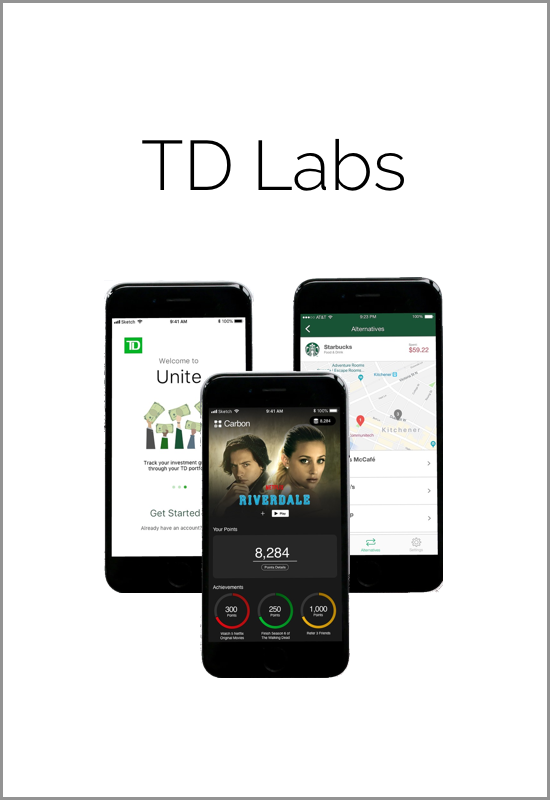
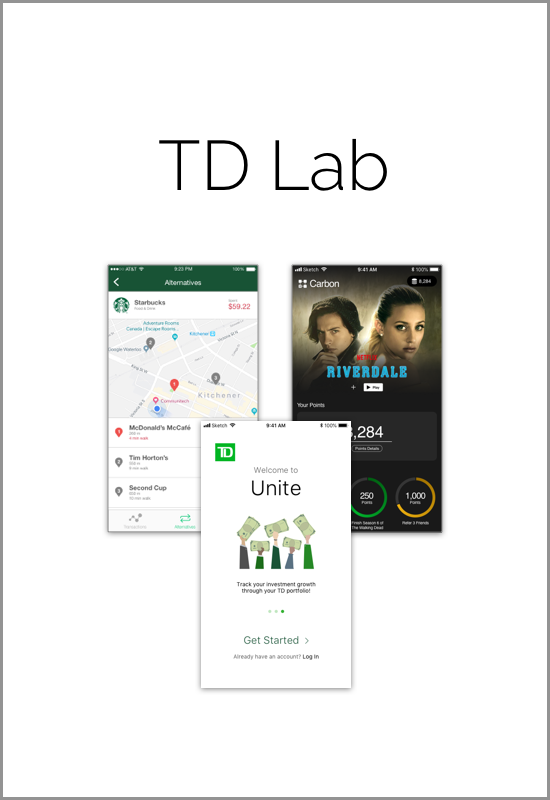
project pages, images, reorganization :x

Changed region(s): [[0.1855, 0.3125, 0.8345, 0.875], [0.2473, 0.1562, 0.7418, 0.25]]

diff --git a/td.html b/td.html
@@ -31,7 +31,7 @@
 
         <div class="container-fluid project-intro">
             <div class="row">
-                <img src="mockups/collide-welcome-mock.png" alt="Collide Home Mockup"  class="project-intro-pic">
+                <img src="mockups/td-intro-mock.png" alt="TD Lab Mockup"  class="project-intro-pic">
                 <a class="btn btn-outline-light " href="index.html#projects" role="button"><img class="icon" src="glyph-iconset-master/svg/si-glyph-arrow-thin-left.svg" >Projects</a>
             </div>
 
@@ -40,47 +40,55 @@
 
         <div id="collide">
             <div class="container intro-container">
-                <h2 class="section-title">Collide</h2>
+                <h2 class="section-title">TD Lab - Fall 2018</h2>
                 <div class="line"></div>
             </div>
 
             <div class="container description-container">
                 <div class="row project-item">
-                    <img class="col-lg-6 project-img" src="mockups/collide-home-mock.png"></img>
+                    <img class="col-lg-6 project-img " src="pictures/td-thanksgiving.png"></img>
                     <div class="col-lg-6 project-img-cap">
                         <p>Lorem ipsum dolor sit amet, consectetur adipiscing elit, sed do eiusmod tempor incididunt ut labore et dolore magna aliqua. Ut enim ad minim veniam, quis nostrud exercitation ullamco laboris nisi ut aliquip ex ea commodo consequat.</p>
                     </div>
                 </div>
-
-                <div class="row project-item">
-                    <div class="col-lg-6 project-img-cap">
-                        <p>Lorem ipsum dolor sit amet, consectetur adipiscing elit, sed do eiusmod tempor incididunt ut labore et dolore magna aliqua. Ut enim ad minim veniam, quis nostrud exercitation ullamco laboris nisi ut aliquip ex ea commodo consequat.</p>
-                    </div>
-                    <img class="col-lg-6 project-img" src="mockups/collide-onboarding.png"></img>
-                </div>
-
-                <div class="row project-item">
-                    <img class="col-lg-6 project-img" src="mockups/collide-fitness.png"></img>
-                    <div class="col-lg-6 project-img-cap">
-                        <p>Lorem ipsum dolor sit amet, consectetur adipiscing elit, sed do eiusmod tempor incididunt ut labore et dolore magna aliqua. Ut enim ad minim veniam, quis nostrud exercitation ullamco laboris nisi ut aliquip ex ea commodo consequat.</p>
-                    </div>
-                </div>
-
             </div>
 
             <div class="container">
+                <h2 class="section-title section-title-td">Hackathon Projects</h2>
+                <div class="line"></div>
+
+                    <div class="text-center">
+                            <h2 class="hack-title">TD Unite</h2>
+                        </div>
+                    <div class="text-center">
+                            <img src="mockups/td-u-mock.png" alt="TD Unite Mockup" class="hack-pp-img">
+                    </div>
+                    <div class="text-center">
+                        <p class="hack-cap">Lorem ipsum dolor sit amet, consectetur adipiscing elit, sed do eiusmod tempor incididunt ut labore et dolore magna aliqua.</p>
+                    </div>
+
                     <div class="line"></div>
 
                     <div class="text-center">
-                            <h2 class="project-pres-title">Get to know Collide a bit better...</h2>
+                            <h2 class="hack-title">Carbon</h2>
                         </div>
                     <div class="text-center">
-                        <a href="https://docs.google.com/presentation/d/1MB4bNPIu9TsIKI1iLiS3gjwS2dYgbJJmpbbThyDz7KQ/edit?usp=sharing" target="_blank" > 
-                            <img src="mockups/collide-pres.jpg" alt="Collide-Presentation" class="project-img project-pres-img">
-                        </a> 
+                            <img src="mockups/td-c-mock.png" alt="Carbon-Mockup" class="hack-pp-img">
                     </div>
                     <div class="text-center">
-                        <p class="project-pres-cap">Here's the presentation that explains a bit more about Collide, including why I made it, more on the design process and ideas for future iterations of the product.</p>
+                        <p class="hack-cap">Lorem ipsum dolor sit amet, consectetur adipiscing elit, sed do eiusmod tempor incididunt ut labore et dolore magna aliqua.</p>
+                    </div>
+
+                    <div class="line"></div>
+
+                    <div class="text-center">
+                            <h2 class="hack-title">PocketPatch</h2>
+                        </div>
+                    <div class="text-center">
+                            <img src="mockups/td-pp-mock.png" alt="TD PP ad" class="hack-pp-img">
+                    </div>
+                    <div class="text-center">
+                        <p class="hack-cap">Lorem ipsum dolor sit amet, consectetur adipiscing elit, sed do eiusmod tempor incididunt ut labore et dolore magna aliqua.</p>
                     </div>
             </div>
 

diff --git a/toonies.html b/toonies.html
@@ -31,7 +31,7 @@
 
         <div class="container-fluid project-intro">
             <div class="row">
-                <img src="mockups/collide-welcome-mock.png" alt="Collide Home Mockup"  class="project-intro-pic">
+                <img src="mockups/toonies-intro-mock.png" alt="Toonies Home Mockup"  class="project-intro-pic">
                 <a class="btn btn-outline-light " href="index.html#projects" role="button"><img class="icon" src="glyph-iconset-master/svg/si-glyph-arrow-thin-left.svg" >Projects</a>
             </div>
 
@@ -40,13 +40,13 @@
 
         <div id="collide">
             <div class="container intro-container">
-                <h2 class="section-title">Collide</h2>
+                <h2 class="section-title">Toonies</h2>
                 <div class="line"></div>
             </div>
 
             <div class="container description-container">
                 <div class="row project-item">
-                    <img class="col-lg-6 project-img" src="mockups/collide-home-mock.png"></img>
+                    <img class="col-lg-6 project-img-mock" src="mockups/toonies-signup-mock.png"></img>
                     <div class="col-lg-6 project-img-cap">
                         <p>Lorem ipsum dolor sit amet, consectetur adipiscing elit, sed do eiusmod tempor incididunt ut labore et dolore magna aliqua. Ut enim ad minim veniam, quis nostrud exercitation ullamco laboris nisi ut aliquip ex ea commodo consequat.</p>
                     </div>
@@ -56,14 +56,21 @@
                     <div class="col-lg-6 project-img-cap">
                         <p>Lorem ipsum dolor sit amet, consectetur adipiscing elit, sed do eiusmod tempor incididunt ut labore et dolore magna aliqua. Ut enim ad minim veniam, quis nostrud exercitation ullamco laboris nisi ut aliquip ex ea commodo consequat.</p>
                     </div>
-                    <img class="col-lg-6 project-img" src="mockups/collide-onboarding.png"></img>
+                    <img class="col-lg-6 project-img" src="mockups/toonies-mycourses.png"></img>
                 </div>
 
                 <div class="row project-item">
-                    <img class="col-lg-6 project-img" src="mockups/collide-fitness.png"></img>
+                    <img class="col-lg-6 project-img" src="mockups/toonies-lesson.png"></img>
                     <div class="col-lg-6 project-img-cap">
                         <p>Lorem ipsum dolor sit amet, consectetur adipiscing elit, sed do eiusmod tempor incididunt ut labore et dolore magna aliqua. Ut enim ad minim veniam, quis nostrud exercitation ullamco laboris nisi ut aliquip ex ea commodo consequat.</p>
                     </div>
+                </div>
+
+                <div class="row project-item">
+                    <div class="col-lg-6 project-img-cap">
+                        <p>Lorem ipsum dolor sit amet, consectetur adipiscing elit, sed do eiusmod tempor incididunt ut labore et dolore magna aliqua. Ut enim ad minim veniam, quis nostrud exercitation ullamco laboris nisi ut aliquip ex ea commodo consequat.</p>
+                    </div>
+                    <img class="col-lg-6 project-img" src="mockups/toonies-portfolio.png"></img>
                 </div>
 
             </div>
@@ -72,15 +79,15 @@
                     <div class="line"></div>
 
                     <div class="text-center">
-                            <h2 class="project-pres-title">Get to know Collide a bit better...</h2>
+                            <h2 class="project-pres-title">See it for yourself!</h2>
                         </div>
                     <div class="text-center">
                         <a href="https://docs.google.com/presentation/d/1MB4bNPIu9TsIKI1iLiS3gjwS2dYgbJJmpbbThyDz7KQ/edit?usp=sharing" target="_blank" > 
-                            <img src="mockups/collide-pres.jpg" alt="Collide-Presentation" class="project-img project-pres-img">
+                            <img src="mockups/toonies-signup.png" alt="Toonies-Site" class="project-img project-pres-img">
                         </a> 
                     </div>
                     <div class="text-center">
-                        <p class="project-pres-cap">Here's the presentation that explains a bit more about Collide, including why I made it, more on the design process and ideas for future iterations of the product.</p>
+                        <p class="project-pres-cap">Here's a live prototype of the Toonies website.</p>
                     </div>
             </div>
 

diff --git a/style.css b/style.css
@@ -35,24 +35,31 @@ html *{
 }
 
 .intro{
-    height: 30em;
+    height: 580px;
+    width: auto;
     text-align: center;
-    /* background-image: url("pictures/cottage.jpg"); */
+    background-image: url("pictures/intro-background.jpg");
+    background-size: cover;
 }
 
 .center-block-intro{
-    margin: 10% auto 10% auto;
+    margin: 14% auto 10% auto;
 }
 
 .intro-title{
     font-size: 70pt;
     font-weight: 200;
     /* color: white; */ 
+    
 }
 
 .section-title{
     font-weight: 300;
     font-size: 3em;
+}
+
+.section-title-td{
+    padding-top: 2%;
 }
 
 .line{
@@ -169,19 +176,31 @@ ul, menu, dir {
 
 .description-container{
     margin-bottom: 3%;
+    padding-top: 1%;
+    padding-left: 3%;
 }
 
 .project-item{
     margin: 4% 0 4% 0;
 }
 
-.project-img{
-    height: 300px;
+.project-img-mock{
+    max-height: 280px;
+    height: auto;
     width: auto;
 }
 
+
+.project-img{
+    max-height: 300px;
+    height: auto;
+    max-width: 500px;
+    width: auto;
+    padding: 0 2% 0 2%;
+}
+
 .project-img-cap{
-    padding-top: 8%;
+    padding: 8% 4% 0 4%;
 }
 
 .project-pres-title{
@@ -218,4 +237,20 @@ ul, menu, dir {
     color: red;
     height: 20px;
     margin-right: 10%;
+}
+
+.hack-title{
+    margin: 4% auto 4% auto;
+    font-weight: 400;
+    font-size: 35pt;
+}
+
+.hack-cap{
+        margin: 2% 22% 6% 22% ;
+}
+
+.hack-pp-img{
+    padding: 0 2% 0 2%;
+    width: 70%;
+    height: auto;
 }

diff --git a/collide.html b/collide.html
@@ -34,7 +34,6 @@
                 <img src="mockups/collide-welcome-mock.png" alt="Collide Home Mockup"  class="project-intro-pic">
                 <a class="btn btn-outline-light " href="index.html#projects" role="button"><img class="icon" src="glyph-iconset-master/svg/si-glyph-arrow-thin-left.svg" >Projects</a>
             </div>
-
         
         </div>
 
@@ -46,7 +45,7 @@
 
             <div class="container description-container">
                 <div class="row project-item">
-                    <img class="col-lg-6 project-img" src="mockups/collide-home-mock.png"></img>
+                    <img class="col-lg-6 project-img-mock" src="mockups/collide-home-mock.png"></img>
                     <div class="col-lg-6 project-img-cap">
                         <p>Lorem ipsum dolor sit amet, consectetur adipiscing elit, sed do eiusmod tempor incididunt ut labore et dolore magna aliqua. Ut enim ad minim veniam, quis nostrud exercitation ullamco laboris nisi ut aliquip ex ea commodo consequat.</p>
                     </div>

diff --git a/index.html b/index.html
@@ -33,10 +33,7 @@
 
         <div class="container-fluid intro">
             <div class="row">
-                
-
-                <div class="col-md-12 intro-title center-block-intro" id="demo"></div>
-                
+                <div class="intro-title center-block-intro" id="demo"></div>
             </div>
         </div>
 
@@ -61,7 +58,7 @@
 
                         <div class="col-md-4 project-item">
                                 <a href="td.html">
-                                    <img src="thumbnails/td-thumbnail-naked.png" alt="TD-Thumbnail" class="project-thumbnail">
+                                    <img src="thumbnails/td-thumbnail.png" alt="TD-Thumbnail" class="project-thumbnail">
                                 </a>
                         </div>
                         

diff --git a/title.js b/title.js
@@ -1,5 +1,5 @@
 var i = 0;
-var txt = "Hi, I'm Christina"; /* The text */
+var txt = "Hi, I'm Christina."; /* The text */
 var speed = 100; /* The speed/duration of the effect in milliseconds */
 
 function typeWriter() {
